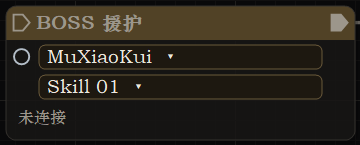
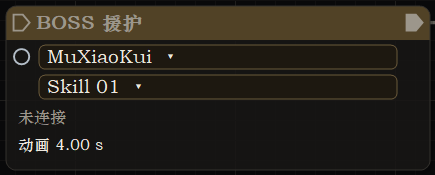
Extend skill trimming and duration display, fix modifier popup

Changed region(s): [[0.0, 0.0276, 1.0, 0.7172], [0.0306, 0.7448, 0.2444, 0.8828]]

diff --git a/src/character/combo_menu.cpp b/src/character/combo_menu.cpp
@@ -749,13 +749,13 @@ std::wstring HoldText(int ms) {
 // A shared trim follows the playing linked skill, then selection/preview, then
 // its first owner. The displayed source identifies which montage length is used.
 int TrimSource(size_t index){
-    const auto linked=[&](int source){return At(source)&&At(source)->type==NodeType::BossSkill&&NpcCombo::ModOf(config_,source,NpcCombo::kModTrim)==static_cast<int>(index);};
+    const auto linked=[&](int source){return At(source)&&NpcCombo::TakesTrim(*At(source))&&NpcCombo::ModOf(config_,source,NpcCombo::kModTrim)==static_cast<int>(index);};
     if(run_.running&&run_.profile==moves_.profile&&linked(run_.node))return run_.node;
     if(linked(selected_))return selected_;
     if(linked(preview_.node))return preview_.node;
     return NpcCombo::TrimmedBy(config_,static_cast<int>(index));
 }
-float TrimClip(size_t index) {const Node* source=At(TrimSource(index));return source?NpcCombo::Clip(source->ability):0.f;}
+float TrimClip(size_t index) {const Node* source=At(TrimSource(index));return source?NpcCombo::Clip(NpcCombo::DurationKey(*source,moves_.profile)):0.f;}
 std::wstring TrimEndText(const Node& node) { return node.trim_to>0?Seconds(NpcCombo::ClampTrim(node.trim_to)/1000.0):Tr(L"放完"); }
 std::wstring TrimSourceText(size_t index){
     const Node* source=At(TrimSource(index));if(!source)return Tr(L"未连接技能");
@@ -831,13 +831,13 @@ std::wstring ModifierNote(size_t index) {
         wchar_t text[96]{}; _snwprintf_s(text,_countof(text),_TRUNCATE,Tr(L"指向它的 %d 招 BOSS 技能放完不变回").c_str(),from.nodes); return text;
     }
     if (node.type==NodeType::Trim) {
-        if (!from.nodes) return Tr(L"未连接：从 BOSS 技能拉箭头到这里");
+        if (!from.nodes) return Tr(L"未连接：从技能、武器派生或闪避拉箭头到这里");
         const NpcCombo::TrimRange r=NpcCombo::TrimOf(node); const float clip=TrimClip(index);
         if (node.trim_to>0&&node.trim_to<=node.trim_from) return Tr(L"结束不晚于开始：放到这一招结尾");
         if (clip>0&&r.from>=clip) { wchar_t text[128]{}; _snwprintf_s(text,_countof(text),_TRUNCATE,Tr(L"开始晚于这一招的长度 %.2f s：整招照常播放").c_str(),static_cast<double>(clip)); return text; }
         if (clip>0) return Tr(L"右键增删停留点 · 预览按住空格");
         if (!r.on) return Tr(L"从头放到结尾：调开始或结束来裁剪");
-        wchar_t text[96]{}; _snwprintf_s(text,_countof(text),_TRUNCATE,Tr(L"指向它的 %d 招 BOSS 技能只播放这一段").c_str(),from.nodes); return text;
+        wchar_t text[96]{}; _snwprintf_s(text,_countof(text),_TRUNCATE,Tr(L"指向它的 %d 招技能只播放这一段").c_str(),from.nodes); return text;
     }
     if (!from.nodes) return Tr(node.type==NodeType::Weapon?L"未连接：从起端节点拉箭头到这里":L"未连接：从起端节点或招式拉箭头到这里");
     if (node.type==NodeType::Weapon) return Tr(L"这条链的 Boss 招式伤害 × 主武器强度");
@@ -950,14 +950,12 @@ std::wstring NodeNote(size_t index) {
     if (node.ability.empty()||!MoveOfSkin(node.ability)) return Tr(L"不属于当前外观");
     std::wstring note=Tr(NpcCombo::KindLabel(KindOf(node.ability)));
     const int speed=MoveSpeed(index);
-    const float lasts=NpcCombo::Length(node.ability);
-    if (lasts>0) note+=L" · "+Seconds(lasts*100.0/speed);
     if (speed!=100) note+=L" · "+SpeedText(speed);
     if (!wired) note+=L" · "+Tr(L"未连接");
     return note;
 }
 // Width and height in canvas units (measured: NodeSize keeps them).
-SIZE MeasureNode(HDC dc,size_t index) {
+SIZE MeasureNodeBody(HDC dc,size_t index) {
     ++canvas_cache_.measurements;
     const Node& node=config_.chain[index];
     if (node.type==NodeType::Trigger) {
@@ -1069,6 +1067,23 @@ SIZE MeasureNode(HDC dc,size_t index) {
     if (node.type==NodeType::Interval) return {std::clamp((std::max)(title,note),190,320),kHeader+kRow*2+kPad};
     if (node.type==NodeType::PreInput) return {std::clamp((std::max)(title,note),230,420),kHeader+kRow*2+kPad};
     return {std::clamp((std::max)(title,note),250,340),kHeader+kRow*2+kPad};  // a move: its note, then its 派生点
+}
+std::wstring AnimationDuration(size_t index) {
+    const Node& node=config_.chain[index];
+    std::string key=NpcCombo::DurationKey(node,moves_.profile);
+    if(node.type==NodeType::Grab){const auto* grab=NodeGrab(node);if(grab){key=MotianGrab::PreviewMontage(grab->index);const auto slash=key.find_last_of('/');if(slash!=std::string::npos)key=key.substr(slash+1);key=key.substr(0,key.find('.'));}}
+    const float length=NpcCombo::Clip(key);
+    if(!(length>0))return Tr(L"动画时长：待读取（播放或预览后显示）");
+    auto trim=NpcCombo::TrimFor(config_,static_cast<int>(index));if(trim.from>=length)trim={};
+    std::wstring text=Tr(L"动画 ")+Seconds(length);
+    if(trim.on)text+=Tr(L" · 裁后 ")+Seconds(NpcCombo::TrimSpan(trim,length));
+    if(node.type==NodeType::AutoDodge||node.hook_auto)text+=Tr(L" · 最近一次");
+    return text;
+}
+SIZE MeasureNode(HDC dc,size_t index) {
+    SIZE size=MeasureNodeBody(dc,index);
+    if(NpcCombo::HasAnimation(config_.chain[index])){size.cy+=kRow;size.cx=(std::max)(size.cx,340L);}
+    return size;
 }
 SIZE NodeSize(HDC dc,size_t index) {
     if (index>=config_.chain.size()) return {0,0};
@@ -1809,7 +1824,7 @@ void SearchItems() {
         if (At(search_.mod_from)) {
             const NodeType from=config_.chain[static_cast<size_t>(search_.mod_from)].type;
             if (NpcCombo::StartsChain(config_.chain[static_cast<size_t>(search_.mod_from)])||from==NodeType::BossSkill||from==NodeType::Group) add({ItemKind::KeepLook,Tr(L"保留变身"),flow});
-            if (from==NodeType::BossSkill) add({ItemKind::Trim,Tr(L"裁剪"),flow});  // a part of its own montage
+            if (NpcCombo::TakesTrim(config_.chain[static_cast<size_t>(search_.mod_from)])) add({ItemKind::Trim,Tr(L"裁剪"),flow});  // a part of its own montage
         }
         add({ItemKind::ForceHit,Tr(L"强制受击"),flow});
         if (At(search_.mod_from)) {
@@ -3872,6 +3887,10 @@ void DrawCanvas(HDC dc,Gdiplus::Graphics& graphics) {
             break;
         }
         }
+        if(NpcCombo::HasAnimation(node)){
+            RECT duration{s.rect.left+Px(10),s.rect.bottom-Px(kPad+kRow),s.rect.right-Px(10),s.rect.bottom-Px(kPad)};
+            Label(dc,AnimationDuration(i),duration,Scaled(UiTheme::Font::Small),text,DT_SINGLELINE|DT_VCENTER|DT_LEFT|DT_END_ELLIPSIS);
+        }
         if (s.has_in) ExecPin(graphics,s.in,fed[i],hot_==Hit{Part::NodeIn,index},live[i]?text:muted);
         if (s.has_mod_out) ModPin(graphics,s.mod_out,modded[i],hot_==Hit{Part::ModOut,index},UiTheme::AccentBlue());
         if (s.has_mod_in) ModPin(graphics,s.mod_in,pointed[i],hot_==Hit{Part::ModIn,index},ModColor(node.type));
@@ -4448,8 +4467,8 @@ bool HoverMove(int32_t& skin,std::string& ability,RECT& anchor,bool& beside,int&
         const Node* hovered=At(test_hover_.node);
         const int source=hovered&&hovered->type==NodeType::Trim?NpcCombo::TrimmedBy(config_,test_hover_.node):
             hovered&&(hovered->type==NodeType::BoneTransform||hovered->type==NodeType::Speed)?MoveUnderSpeed(test_hover_.node):test_hover_.node;
-        const Node* n=At(source); if (!n||!NpcCombo::PicksBossMove(*n)||n->ability.empty()||n->boss.empty()) return false;
-        skin=BossLookRow(n->boss); ability=n->ability; index=source;
+        const Node* n=At(source); if (!n||n->ability.empty()||(n->type!=NodeType::Skill&&!NpcCombo::PicksBossMove(*n))) return false;
+        skin=n->type==NodeType::Skill?skin_:BossLookRow(n->boss); ability=n->ability; index=source;
         const HDC dc=GetDC(window_); anchor=NodeShape(dc,static_cast<size_t>(test_hover_.node)).rect; ReleaseDC(window_,dc);
         return skin>=0;
     }
@@ -4475,8 +4494,8 @@ bool HoverMove(int32_t& skin,std::string& ability,RECT& anchor,bool& beside,int&
     // A 裁剪 card (its steppers too) shows the BOSS 技能 it cuts, only its part, as the chain plays it.
     if (hot_.index>=0&&At(hot_.index)&&config_.chain[static_cast<size_t>(hot_.index)].type==NodeType::Trim&&hot_.part>=Part::Node&&hot_.part<=Part::NodeTrimBar) {
         const int source=NpcCombo::TrimmedBy(config_,hot_.index);
-        const Node* n=At(source); if (!n||n->ability.empty()||n->boss.empty()) return false;
-        skin=BossLookRow(n->boss); ability=n->ability; index=source;
+        const Node* n=At(source); if (!n||n->ability.empty()) return false;
+        skin=n->type==NodeType::Skill?skin_:BossLookRow(n->boss); ability=n->ability; index=source;
         const HDC dc=GetDC(window_); anchor=NodeShape(dc,static_cast<size_t>(hot_.index)).rect; ReleaseDC(window_,dc);
         return skin>=0;
     }
@@ -4728,6 +4747,7 @@ void RefreshData(){Refresh(false);}
 void PickNodes(const std::vector<int>& nodes){picked_.clear();for(int node:nodes)if(At(node))picked_.push_back(node);selected_=picked_.empty()?-1:picked_.back();}
 bool ClipboardShortcut(int key){return ClipboardKey(key,true);}
 size_t ClipboardCount(){return node_clipboard_.size();}
+std::wstring AnimationDurationText(int index){return At(index)?AnimationDuration(static_cast<size_t>(index)):L"";}
 std::wstring TrimDurationText(int index){return At(index)?TrimBarText(static_cast<size_t>(index)):L"";}
 std::wstring TrimSourceLabel(int index){return At(index)?TrimSourceText(static_cast<size_t>(index)):L"";}
 // Hidden-host performance fixtures only; never saved or sent to the game.

diff --git a/tests/combo_library_test.cpp b/tests/combo_library_test.cpp
@@ -342,6 +342,31 @@ int wmain(int argc,wchar_t** argv) {
     check(TrimDurationText(trim_index).find(L"待读取")!=std::wstring::npos&&TrimSourceLabel(trim_index).find(L"UnknownLength")!=std::wstring::npos,"shared trim follows running source and never borrows another move length");
     NpcCombo::RecordClip(second.ability,6.0f);check(TrimDurationText(trim_index).find(L"5.50 s")!=std::wstring::npos,"new source length refreshes kept duration immediately");
     NpcCombo::Publish(moves.profile,false,-1,L"");RefreshData();PickNodes({boss_index});check(TrimDurationText(trim_index).find(L"3.50 s")!=std::wstring::npos,"shared trim follows selected linked move after playback ends");
+    check(AnimationDurationText(boss_index).find(L"4.00 s")!=std::wstring::npos,"boss node displays original animation duration");
+    check(AnimationDurationText(boss_index).find(L"3.50 s")!=std::wstring::npos,"boss node displays trimmed animation duration");
+    duration.chain[boss_index].type=NpcCombo::NodeType::Skill;duration.chain[boss_index].boss.clear();
+    NpcCombo::Save(moves.profile,duration);RefreshData();TrimPreviewAt(trim_index);
+    check(preview_from_==500&&preview_to_==0,"current-character skill preview receives its trim");
+    check(TrimDurationText(trim_index).find(L"3.50 s")!=std::wstring::npos,"current-character skill trim displays duration");
+    // Exercise the actual round-pin drag -> popup -> create-and-connect path.
+    SetWindowPos(page_,nullptr,0,0,1440,900,SWP_NOZORDER|SWP_NOACTIVATE);
+    for(const auto type:{NpcCombo::NodeType::Skill,NpcCombo::NodeType::BossSkill,NpcCombo::NodeType::WeaponMove,NpcCombo::NodeType::AutoDodge}){
+        NpcCombo::Config popup;NpcCombo::Node source;source.type=type;source.ability=moves.skills.front();source.boss=moves.profile;source.weapon="Long";source.x=80;source.y=100;
+        popup.chain.push_back(source);NpcCombo::EnsureKey(popup);NpcCombo::EnsurePreInput(popup);NpcCombo::EnsureAirDefault(popup);
+        for(size_t i=1;i<popup.chain.size();++i){popup.chain[i].x=2400;popup.chain[i].y=200+static_cast<int>(i)*300;}
+        NpcCombo::Save(moves.profile,popup);RefreshData();ZoomTo(100);Show(0);
+        const POINT start=ModOut(0);const RECT canvas=Canvas();const POINT drop{canvas.left+520,canvas.top+300};
+        SendMessageW(page_,WM_LBUTTONDOWN,MK_LBUTTON,MAKELPARAM(start.x,start.y));
+        SendMessageW(page_,WM_MOUSEMOVE,MK_LBUTTON,MAKELPARAM(drop.x,drop.y));
+        SendMessageW(page_,WM_LBUTTONUP,0,MAKELPARAM(drop.x,drop.y));
+        check(SearchOpen(),"round pin opens modifier popup");HWND input=SearchInput();
+        SendMessageW(input,WM_SETTEXT,0,reinterpret_cast<LPARAM>(L"裁剪"));
+        check(SearchRows()>0,"trim is listed for every supported skill type");
+        SendMessageW(input,WM_KEYDOWN,VK_RETURN,0);
+        const auto saved=NpcCombo::Load(moves.profile);const int popup_trim=NpcCombo::ModOf(saved,0,NpcCombo::kModTrim);
+        check(popup_trim>=0&&saved.chain[static_cast<size_t>(popup_trim)].type==NpcCombo::NodeType::Trim,"popup creates and connects trim");
+        check(NpcCombo::ModOf(NpcCombo::Decode(NpcCombo::Encode(saved)),0,NpcCombo::kModTrim)==popup_trim,"popup trim link survives persistence");
+    }
     // Foreground changes by the user are permitted; this process must never own it.
     DWORD foreground_pid=0; GetWindowThreadProcessId(GetForegroundWindow(),&foreground_pid);
     check(foreground_pid!=GetCurrentProcessId(),"test never takes foreground");

diff --git a/src/character/npc_combo_model.h b/src/character/npc_combo_model.h
@@ -564,6 +564,16 @@ inline int SlotOf(NodeType type) {
 inline bool TakesAir(const Node& node) {
     return node.type == NodeType::Skill || node.type == NodeType::BossSkill || node.type == NodeType::WeaponMove || node.type == NodeType::AutoDodge;
 }
+// Independent animations played by the hero share the trim clock and cleanup path.
+inline bool TakesTrim(const Node& node) { return TakesAir(node); }
+inline bool HasAnimation(const Node& node) {
+    return TakesTrim(node)||node.type==NodeType::Grab||node.type==NodeType::Assist||node.type==NodeType::Hook;
+}
+inline std::string DurationKey(const Node& node,const std::string& profile) {
+    if(node.type==NodeType::AutoDodge)return "@dodge:"+profile;
+    if(node.type==NodeType::Hook&&node.hook_auto)return "@hook:auto:"+profile;
+    return node.ability;
+}
 // May node `from` point at modifier `mod`: a trigger may point at any; a move at 加速 / 霸体 / 允许中断 / 伤害倍率 / 无敌 /
 // 强制受击 / 无视防御 / 保持派生;
 // 保留变身 only a trigger, a BOSS 技能 or a frame (the BOSS 技能 it holds).
@@ -572,7 +582,7 @@ inline bool ModifierFits(const std::vector<Node>& chain, int from, int mod) {
     const Node& source = chain[static_cast<size_t>(from)]; const Node& target = chain[static_cast<size_t>(mod)];
     if (!IsModifier(target)) return false;
     if (target.type == NodeType::KeepLook) return StartsChain(source) || source.type == NodeType::BossSkill || source.type == NodeType::Group;
-    if (target.type == NodeType::Trim) return source.type == NodeType::BossSkill;  // its own montage's part
+    if (target.type == NodeType::Trim) return TakesTrim(source);  // its own montage's part
     if (target.type == NodeType::Air) return StartsChain(source) || TakesAir(source) || source.type == NodeType::Group;
     if (source.type == NodeType::Grab) return target.type == NodeType::Interrupt;
     return StartsChain(source) ||
@@ -1178,7 +1188,7 @@ inline TrimRange TrimOf(const Node& trim) {
     r.holds=TrimHolds(trim.trim_holds);r.on = r.from > 0 || r.to > 0 || !r.holds.empty(); return r;
 }
 inline TrimRange TrimFor(const Config& config, int index) {
-    if (index < 0 || static_cast<size_t>(index) >= config.chain.size() || config.chain[static_cast<size_t>(index)].type != NodeType::BossSkill) return {};
+    if (index < 0 || static_cast<size_t>(index) >= config.chain.size() || !TakesTrim(config.chain[static_cast<size_t>(index)])) return {};
     const int mod = ModOf(config, index, kModTrim);
     return mod >= 0 ? TrimOf(config.chain[static_cast<size_t>(mod)]) : TrimRange{};
 }
@@ -1194,7 +1204,7 @@ inline double TrimProgress(const TrimRange& r, double position, double length) {
 }
 // The first BOSS 技能 pointing at a 裁剪 node (-1: none).
 inline int TrimmedBy(const Config& config, int trim) {
-    for (size_t i = 0; i < config.chain.size(); ++i) if (config.chain[i].type == NodeType::BossSkill && ModOf(config, static_cast<int>(i), kModTrim) == trim) return static_cast<int>(i);
+    for (size_t i = 0; i < config.chain.size(); ++i) if (TakesTrim(config.chain[i]) && ModOf(config, static_cast<int>(i), kModTrim) == trim) return static_cast<int>(i);
     return -1;
 }
 // ---- 组合 ----

diff --git a/src/boss/boss_assist.cpp b/src/boss/boss_assist.cpp
@@ -43,7 +43,7 @@ struct Slot {
     Object* ability = nullptr; std::string ability_name;
     Object* enemy = nullptr; Name enemy_name{}; LockTarget target{}; bool lock_known = false;
     Phase phase = Phase::Idle; ULONGLONG phase_at = 0, next_try = 0, born = 0;
-    int32_t handle = 0; bool seen_active = false; uint32_t tries = 0, ai_stops = 0;
+    int32_t handle = 0; bool seen_active = false, duration_recorded = false; uint32_t tries = 0, ai_stops = 0;
     Vector land{}; Mods mods; float dilation = 1;
 };
 
@@ -468,6 +468,11 @@ void Start(const Job& job) {
     s.phase = Phase::Casting; s.phase_at = GetTickCount64(); s.next_try = 0; Aim(s);
 }
 void TickSlot(Slot& s, ULONGLONG now) {
+    if(!s.duration_recorded&&s.phase==Phase::Casting&&SameBoss(s)){
+        if(Object* mesh=Property(s.boss,"Mesh")){Call instance(mesh,"GetAnimInstance");
+            if(instance.Invoke()){Object* anim=instance.Get<Object*>("ReturnValue");if(ue::Alive(anim)){Call montage(anim,"GetCurrentActiveMontage");
+                if(montage.Invoke()){Object* clip=montage.Get<Object*>("ReturnValue");if(ue::Alive(clip)){Call length(clip,"GetPlayLength");if(length.Invoke()&&length.Get<float>("ReturnValue")>0){NpcCombo::RecordClip(s.ability_name.substr(0,s.ability_name.find('.')),length.Get<float>("ReturnValue"));s.duration_recorded=true;}}}}}}
+    }
     if (s.phase == Phase::Idle) return;
     if (s.phase != Phase::Leaving && !SameBoss(s)) { Logf("BOSS_ASSIST slot=%zu boss gone (destroyed by the game) phase=%d", SlotIndex(s), static_cast<int>(s.phase)); s = Slot{}; return; }
     if (s.phase == Phase::Leaving) { if (now >= s.phase_at + kLeaveMs) Finish(s); return; }
@@ -826,6 +831,7 @@ bool PlayClip(Slot& s) {
     Call play(anim, "Montage_Play");
     const bool ok = play.Set("MontageToPlay", preview_clip_).Set("InPlayRate", 1.0f).Set("ReturnValueType", uint8_t{0}).Set("InTimeToStartMontageAt", 0.0f)
                         .Set("bStopAllMontages", true).Invoke() && play.Get<float>("ReturnValue") > 0;
+    if(ok){Call length(preview_clip_,"GetPlayLength");if(length.Invoke())NpcCombo::RecordClip(s.ability_name.substr(0,s.ability_name.find('.')),length.Get<float>("ReturnValue"));}
     if (!ok && (++preview_clip_tries_ == 1 || preview_clip_tries_ == 20)) Logf("BOSS_ASSIST preview clip %s did not play (try %u)", Text(preview_clip_).c_str(), preview_clip_tries_);
     return ok;
 }

diff --git a/tests/npc_combo_test.cpp b/tests/npc_combo_test.cpp
@@ -1101,9 +1101,15 @@ int main() {
         tc.chain.push_back({NodeType::Skill, "GA_Hero"});                             // 4
         tc.chain[0].next = 1;
         Check(IsModifier(tc.chain[2]) && SlotOf(NodeType::Trim) == kModTrim && NoMods()[kModTrim] == -1 && Node{}.mods[kModTrim] == -1, "a 裁剪 is a modifier in its own slot; new nodes point cursor_at none");
-        Check(LinkModifier(tc, 1, 2) && LinkModifier(tc, 1, 3) && !LinkModifier(tc, 4, 2) && !LinkModifier(tc, 0, 2), "only a BOSS 技能 points cursor_at a 裁剪");
+        Check(LinkModifier(tc, 1, 2) && LinkModifier(tc, 1, 3) && LinkModifier(tc, 4, 2) && !LinkModifier(tc, 0, 2), "hero and boss skills accept trim; triggers do not");
+        for(const auto type:{NodeType::Skill,NodeType::BossSkill,NodeType::WeaponMove,NodeType::AutoDodge}){
+            Config copy=tc;copy.chain[1].type=type;copy.chain[1].weapon="Long";
+            Check(LinkModifier(copy,1,2)&&TrimFor(copy,1).on,"all independent skill types accept trim");
+            Check(TrimFor(Decode(Encode(copy)),1).on,"expanded trim persists through save/load");
+        }
+        Check(!TakesTrim(Node{NodeType::Grab})&&!TakesTrim(Node{NodeType::Assist}),"paired grabs and independent assists retain separate lifecycles");
         const TrimRange r = TrimFor(tc, 1);
-        Check(r.on && r.from == 1.2 && r.to == 2.4 && SpeedFor(tc, 0, 1) == kSpeedNew && TrimmedBy(tc, 2) == 1 && !TrimFor(tc, 4).on, "its range and its 加速 both reach the move");
+        Check(r.on && r.from == 1.2 && r.to == 2.4 && SpeedFor(tc, 0, 1) == kSpeedNew && TrimmedBy(tc, 2) == 1 && TrimFor(tc, 4).on, "its range and its 加速 both reach the move");
         Check(std::fabs(TrimSpan(r, 3.0) - 1.2) < 1e-9 && std::fabs(TrimSpan(r, 2.0) - 0.8) < 1e-9 && std::fabs(TrimProgress(r, 1.8, 3.0) - 0.5) < 1e-9 && TrimProgress(r, 0.5, 3.0) == 0,
               "the span ends cursor_at the montage's end when that comes first; a curve runs over the part");
         Node open = trim; open.trim_to = 0; Node trim_late = trim; trim_late.trim_to = 1000;

diff --git a/src/character/npc_retarget.cpp b/src/character/npc_retarget.cpp
@@ -7002,7 +7002,7 @@ void RateComboMove(const Context& context,ULONGLONG now) {
     combo_.rated=montage;combo_.rated_anim=Id(anim);
     const bool first=!combo_.first_rated;combo_.first_rated=true;
     const double full=length.Get<float>("ReturnValue"),now_rate=rate.Get<float>("ReturnValue");
-    if(first&&node->type==NpcCombo::NodeType::BossSkill)NpcCombo::RecordClip(node->ability,static_cast<float>(full));
+    if(first&&NpcCombo::HasAnimation(*node))NpcCombo::RecordClip(NpcCombo::DurationKey(*node,ComboProfile()),static_cast<float>(full));
     if(trim.on&&first){
         charge_points_={};trim_={combo_.playing,montage,trim,full,false};trim_.anim=Id(anim);trim_.rate=now_rate>0?now_rate:1.0;
         const bool inside=trim.from>0&&trim.from<full,later=inside&&trim_jump_mode_==1;
@@ -7021,7 +7021,7 @@ void RateComboMove(const Context& context,ULONGLONG now) {
     const double part=trim.on?NpcCombo::TrimSpan(trim,full):0,seconds=part>0?part:full;  // the part's length paces the 加速
     const double scale=Offset(montage,"RateScale")>=0?Property<float>(montage,"RateScale"):1.0;
     const double lasts=NpcCombo::Lasts(seconds,now_rate,scale);
-    if(first&&node->type==NpcCombo::NodeType::Skill)NpcCombo::RecordLength(node->ability,static_cast<float>(lasts));
+    if(first&&NpcCombo::HasAnimation(*node))NpcCombo::RecordLength(NpcCombo::DurationKey(*node,ComboProfile()),static_cast<float>(NpcCombo::Lasts(full,now_rate,scale)));
     if(curve){  // 曲线调节: the curve sets the pace through the move (no stretching to fill an interval)
         speed_.node=combo_.playing;speed_.speed=NpcCombo::SpeedFor(combo_.config,combo_.trigger,combo_.playing);speed_.curve_montage=nullptr;
         std::string shape;for(const NpcCombo::CurvePoint& p:speed_node->points)shape+=(shape.empty()?"":" ")+std::to_string(p.t)+"%:x"+std::to_string(p.speed/100.0).substr(0,4);

diff --git a/src/character/combo_menu.h b/src/character/combo_menu.h
@@ -30,6 +30,7 @@ void RefreshData(); // explicit hidden-host driver for the same production refre
 void PickNodes(const std::vector<int>& nodes);
 bool ClipboardShortcut(int key);
 size_t ClipboardCount();
+std::wstring AnimationDurationText(int node);
 std::wstring TrimDurationText(int node);
 std::wstring TrimSourceLabel(int node);
 void PerformanceFixture(int count);

diff --git a/CHANGELOG.md b/CHANGELOG.md
@@ -1,5 +1,12 @@
 # 更新日志
 
+## 2026-11-10 · 本角色裁剪与动画时长
+
+- 修复圆形接口拖线菜单仍仅对 BOSS 技能提供裁剪的问题；新增四类节点的实际拖线、菜单创建、自动连线和保存往返测试，隐藏 UI 合计 2097 项通过。
+- 裁剪扩展到当前角色招式、BOSS 技能、武器派生及方向闪避，保持每招独立连线；现有加速曲线和按住停留共用播放路径。
+- 技能、方向闪避、武器派生、BOSS 技能、援护、投技、钩子节点新增动画时长行；连接裁剪后显示裁后长度。未读取长度明确等待，动态动作标明最近一次；投技通过预览读取执行者动画长度。
+- 新增类型保存往返及当前角色预览裁剪测试，隐藏 UI 2081 项、裁剪暂停 513 项、播放规则 6351 项和保存压力 423 项通过；未启动游戏，实际动作效果由用户测试。
+
 ## 2026-11-10 · 安装示例与发布整理
 
 - 发布作者提供的 default 快照为 `sampleCombo.combo`：15 张派生表、130 个节点，内容保持原样。旧剑心表作为历史数据保留，当前没有对应外观入口。
